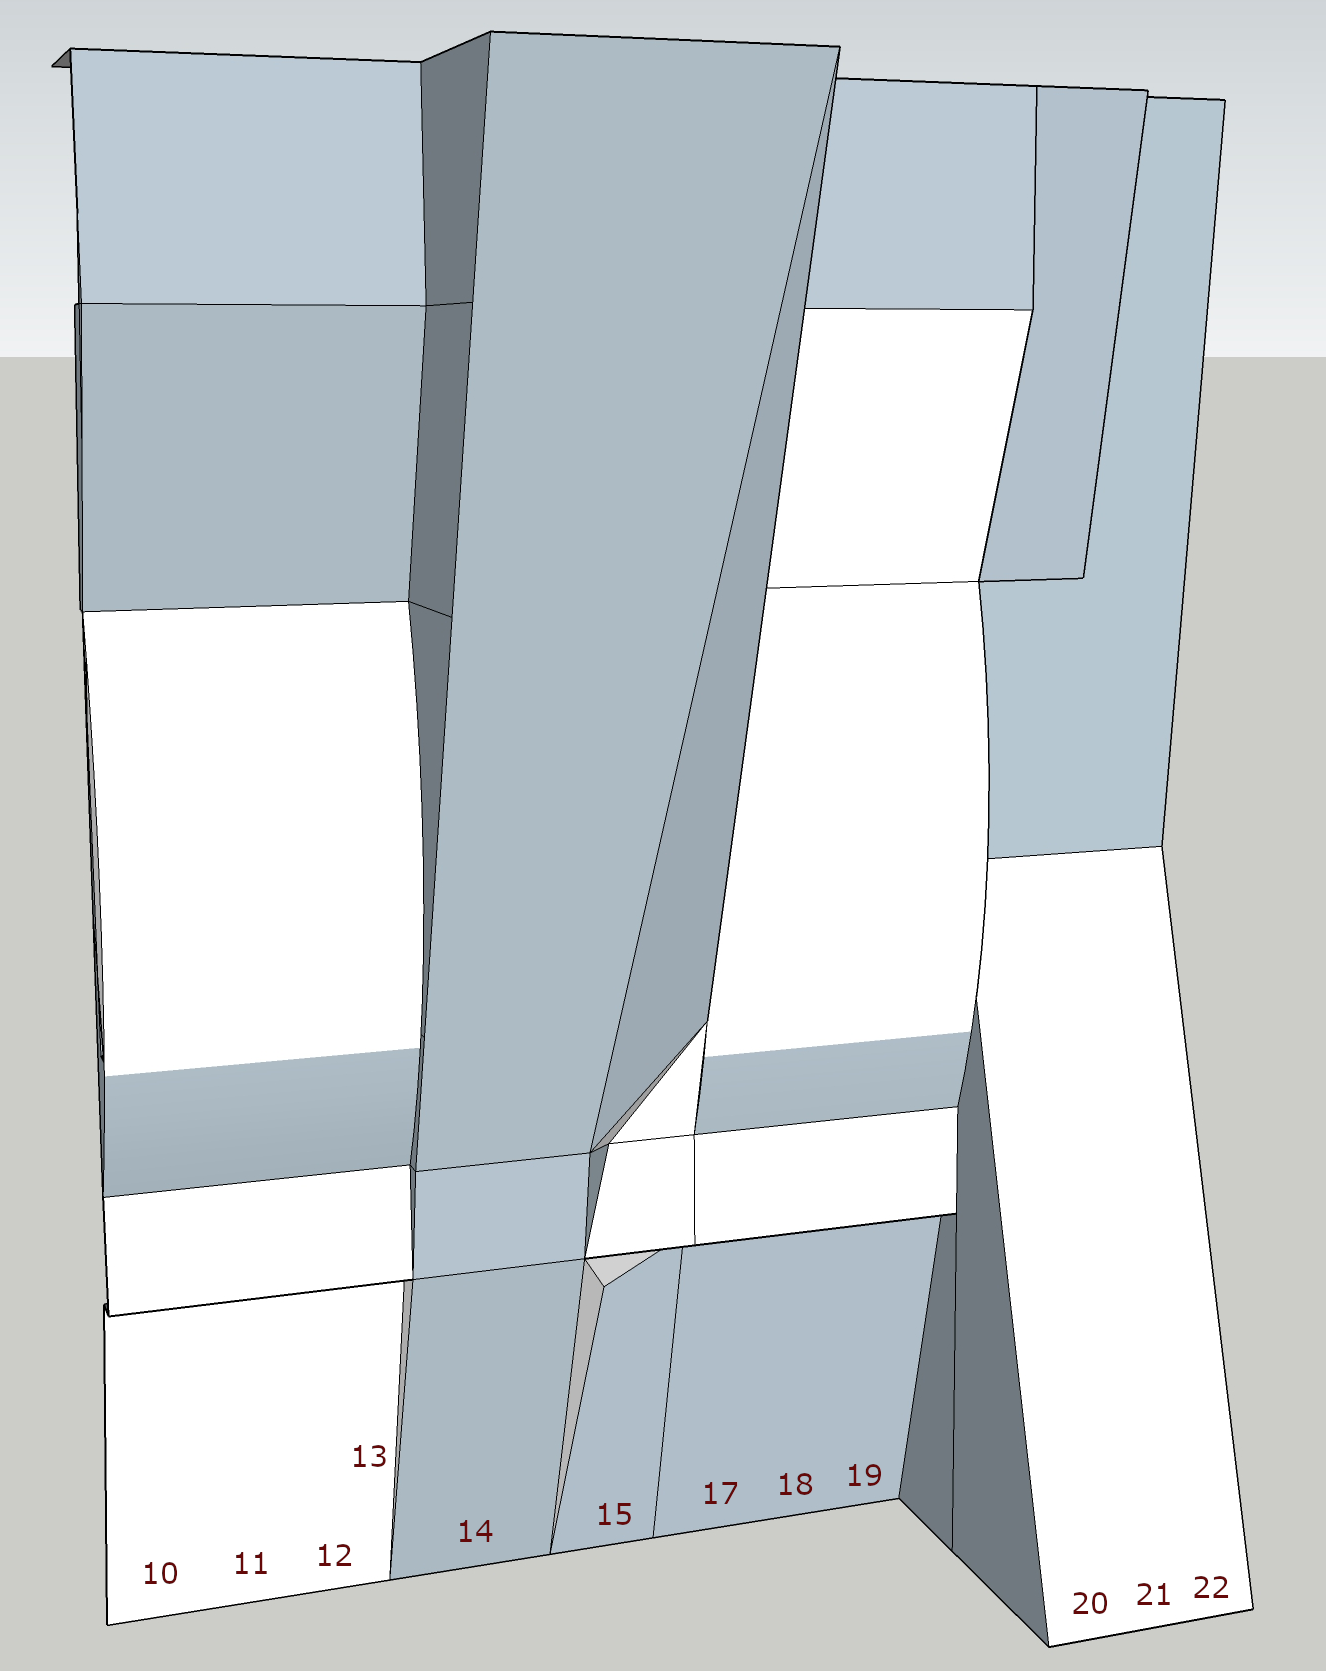
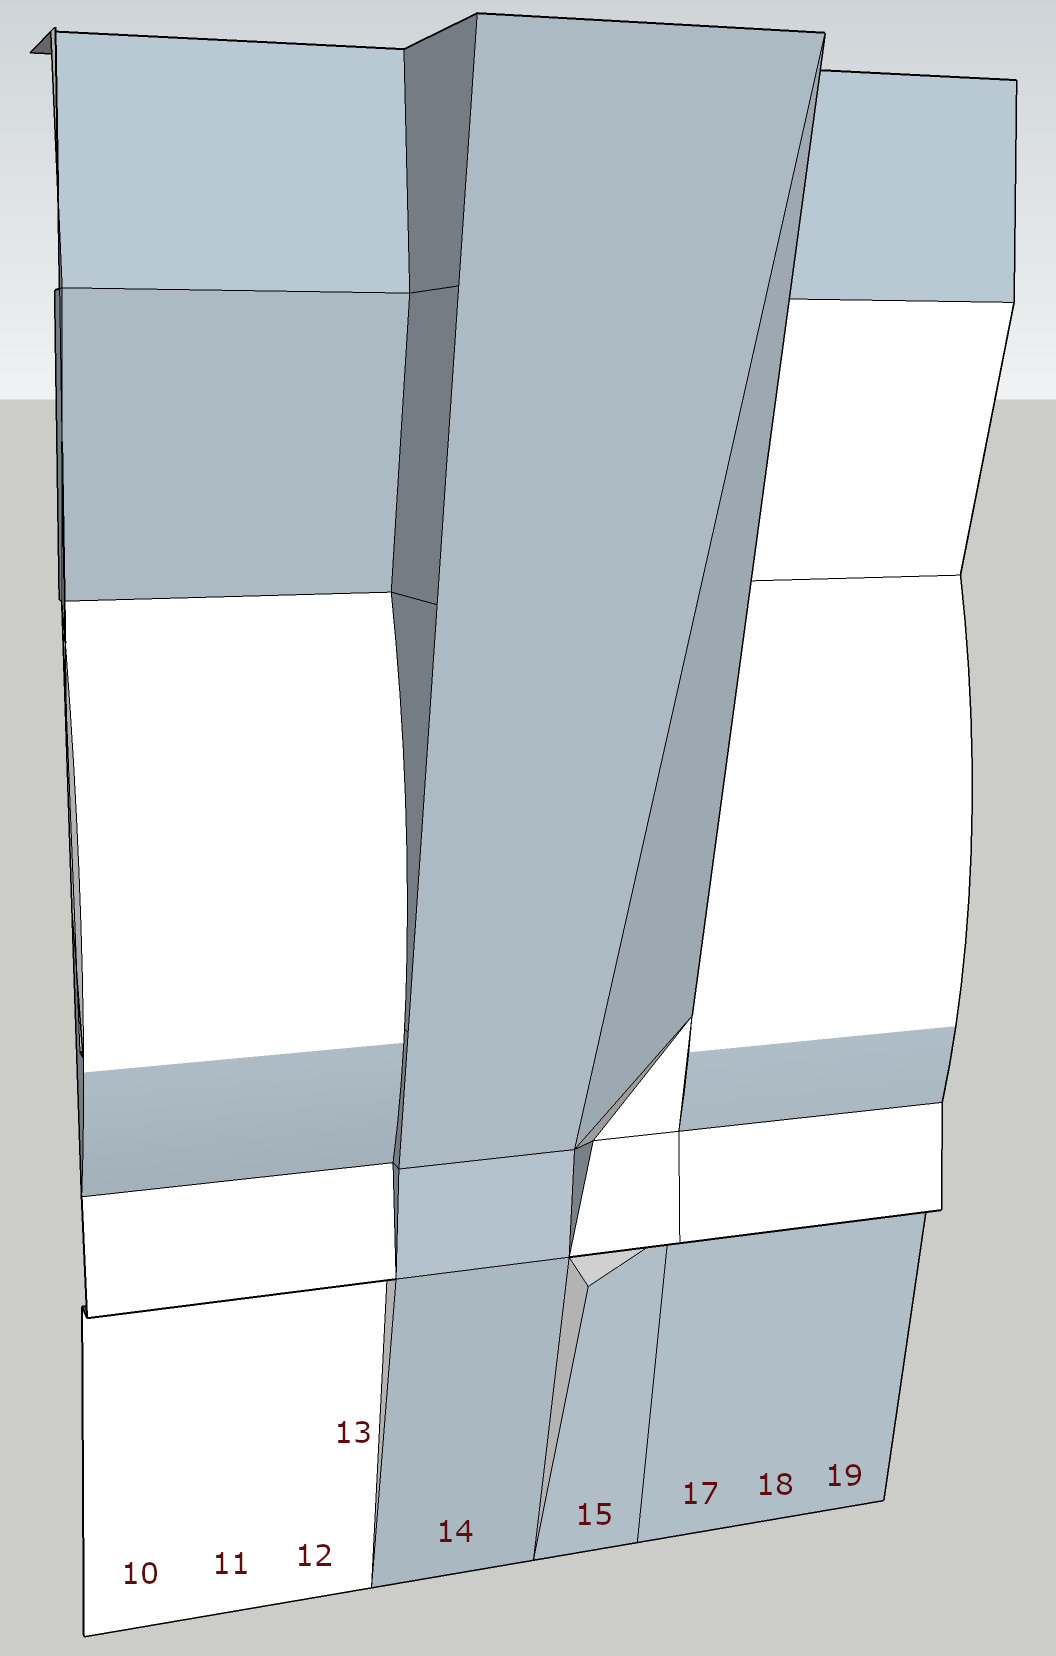
add env var

diff --git a/src/components/Annotate/Annotate.js b/src/components/Annotate/Annotate.js
@@ -273,6 +273,12 @@ function Products(props) {
         ],
     };
 
+    for (const elem of MAP['areas']) {
+        elem['coords'] = elem['coords'].map(e => e / 2.1)
+    }
+
+
+
     const URL_1 = 'gdo-1.png';
     const MAP_1 = {
         name: 'my-map-1',
@@ -619,7 +625,7 @@ function Products(props) {
                                 <ImageMapper src={URL_1} map={MAP_1} width={939/2} height={1596/2} onClick={areaClick}/>
                         </Grid>
                         <Grid item xs={12}>
-                                <ImageMapper src={URL_2} map={MAP_2} width={1326/2} height={1671/2} onClick={areaClick}/>
+                                <ImageMapper src={URL_2} map={MAP_2} width={1056/2} height={1656/2} onClick={areaClick}/>
                         </Grid>
                     </Grid>
 
